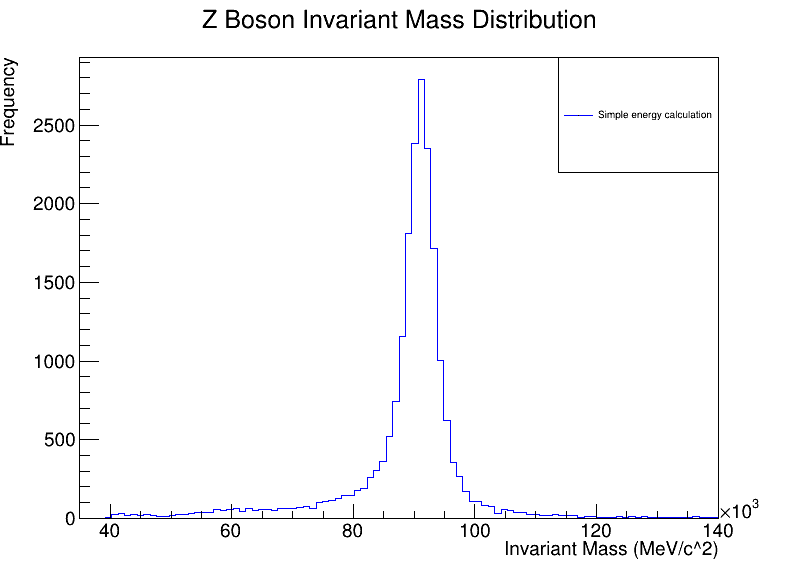
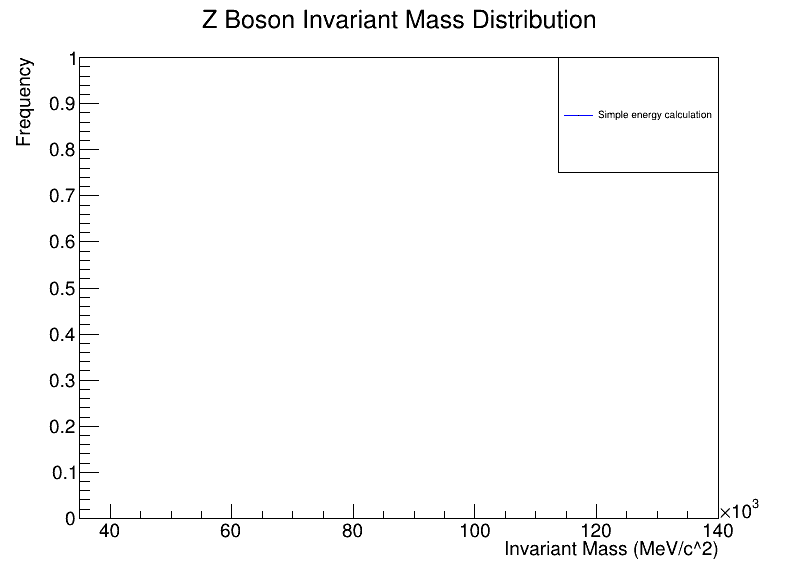
WIP: implement yaml config for drawing

diff --git a/z0-mu/src/workflow/scripts/utility/YAMLConfigReader.C b/z0-mu/src/workflow/scripts/utility/YAMLConfigReader.C
@@ -1,0 +1,52 @@
+#include <iostream>
+#include <fstream>
+#include "YAMLConfigReader.h"
+
+YAMLConfigReader::YAMLConfigReader(const std::string& filename) : valid(true) {
+    try {
+        YAML::Node node = YAML::LoadFile(filename);
+        parseYAML(node);
+    } catch (const YAML::Exception& e) {
+        valid = false;
+        error = e.what();
+    }
+}
+
+bool YAMLConfigReader::isValid() const {
+    return valid;
+}
+
+std::string YAMLConfigReader::getError() const {
+    return error;
+}
+
+CanvasConfig YAMLConfigReader::getConfig() const {
+    return config;
+}
+
+void YAMLConfigReader::parseYAML(const YAML::Node& node) {
+    config.name = node["name"].as<std::string>();
+    config.title = node["title"].as<std::string>();
+    config.outputFilename = node["outputFilename"].as<std::string>();
+
+    // Read HistogramConfigs
+    const YAML::Node& histogramsNode = node["histograms"];
+    for (const YAML::Node& histNode : histogramsNode) {
+        HistogramConfig histConfig;
+        histConfig.name = histNode["name"].as<std::string>();
+        histConfig.title = histNode["title"].as<std::string>();
+        histConfig.expression = histNode["expression"].as<std::string>();
+        histConfig.nbinsx = histNode["nbinsx"].as<int>();
+        histConfig.xlow = histNode["xlow"].as<Double_t>();
+        histConfig.xup = histNode["xup"].as<Double_t>();
+        histConfig.color = static_cast<EColor>(histNode["color"].as<int>());
+        config.histograms.push_back(histConfig);
+    }
+
+    // Read StackConfig
+    const YAML::Node& stackNode = node["stack"];
+    config.stack.name = stackNode["name"].as<std::string>();
+    config.stack.title = stackNode["title"].as<std::string>();
+    config.stack.xaxisTitle = stackNode["xaxisTitle"].as<std::string>();
+    config.stack.yaxisTitle = stackNode["yaxisTitle"].as<std::string>();
+}

diff --git a/z0-mu/src/workflow/scripts/draw.C b/z0-mu/src/workflow/scripts/draw.C
@@ -1,0 +1,42 @@
+#define GraphingManager_cxx
+
+#include <TROOT.h>
+#include <TChain.h>
+#include <TFile.h>
+#include <string>
+#include <iostream>
+
+#include "utility/GraphingManager.h"
+#include "utility/HistogramBuilder.C"
+#include "utility/YAMLConfigReader.C"
+
+inline const char NAMECYCLE[] = "DecayTreeAfterCutflow";
+
+void draw(const std::string inputFileName, const std::string configFileName) {
+  // Read config
+  YAMLConfigReader reader(configFileName);
+
+  if (!reader.isValid()) {
+    std::cerr << "Error: " << reader.getError() << std::endl;
+    return;
+  }
+
+  auto config = reader.getConfig();
+  
+  // Initialize histograms
+  auto graphingManager = new GraphingManager();
+
+  graphingManager->LoadConfig({ config });
+  graphingManager->CreateHistograms();
+  
+  // Fill with data
+  HistogramBuilder builder(inputFileName, NAMECYCLE);
+
+  for (const auto &histogram : config.histograms) {
+    std::cout << histogram.expression << "AAAA" << std::endl;
+    builder.FillExternalHistogram(histogram.expression, graphingManager->histogramDictionary[histogram.name]);
+  }
+
+  // Save to file
+  graphingManager->Print();
+}

diff --git a/z0-mu/src/workflow/scripts/utility/HistogramBuilder.C b/z0-mu/src/workflow/scripts/utility/HistogramBuilder.C
@@ -1,0 +1,27 @@
+#include "HistogramBuilder.h"
+#include <iostream>
+
+HistogramBuilder::HistogramBuilder(const std::string& filename, const std::string& namecycle) {
+    file = new TFile(filename.c_str(), "READ");
+    if (!file || file->IsZombie()) {
+        std::cerr << "Error: Could not open file " << filename << std::endl;
+        return;
+    }
+
+    tree = (TTree*)file->Get(namecycle.c_str());
+
+    if (!tree) {
+        std::cerr << "Error: Could not find TTree in file " << filename << std::endl;
+        return;
+    }
+}
+
+HistogramBuilder::~HistogramBuilder() {
+    file->Close();
+    delete file;
+}
+
+void HistogramBuilder::FillExternalHistogram(const std::string& expression, TH1F* histogram) {
+    std::cout << (expression + " >> " + histogram->GetName()).c_str() << std::endl;
+    tree->Draw((expression + " >> " + histogram->GetName()).c_str());
+}

diff --git a/z0-mu/src/workflow/scripts/utility/YAMLConfigReader.h b/z0-mu/src/workflow/scripts/utility/YAMLConfigReader.h
@@ -1,0 +1,28 @@
+#ifndef YAMLCONFIGREADER_H
+#define YAMLCONFIGREADER_H
+
+#include <yaml-cpp/yaml.h>
+#include <string>
+#include <vector>
+#include <TColor.h>
+#include "HistogramConfig.h"
+
+
+class YAMLConfigReader {
+public:
+    YAMLConfigReader(const std::string& filename);
+
+    bool isValid() const;
+    std::string getError() const;
+
+    CanvasConfig getConfig() const;
+
+private:
+    bool valid;
+    std::string error;
+    CanvasConfig config;
+
+    void parseYAML(const YAML::Node& node);
+};
+
+#endif // YAMLCONFIGREADER_H

diff --git a/z0-mu/src/workflow/scripts/utility/HistogramBuilder.h b/z0-mu/src/workflow/scripts/utility/HistogramBuilder.h
@@ -1,0 +1,22 @@
+#ifndef HISTOGRAMBUILDER_H
+#define HISTOGRAMBUILDER_H
+
+#include <TFile.h>
+#include <TTree.h>
+#include <TH1F.h>
+#include <vector>
+#include <string>
+
+class HistogramBuilder {
+public:
+    HistogramBuilder(const std::string& filename, const std::string& namecycle);
+    ~HistogramBuilder();
+
+    void FillExternalHistogram(const std::string& expression, TH1F* histogram);
+
+private:
+    TFile* file;
+    TTree* tree;
+};
+
+#endif // HISTOGRAMBUILDER_H

diff --git a/z0-mu/src/workflow/scripts/utility/HistogramConfig.h b/z0-mu/src/workflow/scripts/utility/HistogramConfig.h
@@ -7,6 +7,7 @@
 struct HistogramConfig {
   std::string name;
   std::string title;
+  std::string expression;
   int nbinsx;
   Double_t xlow;
   Double_t xup;
